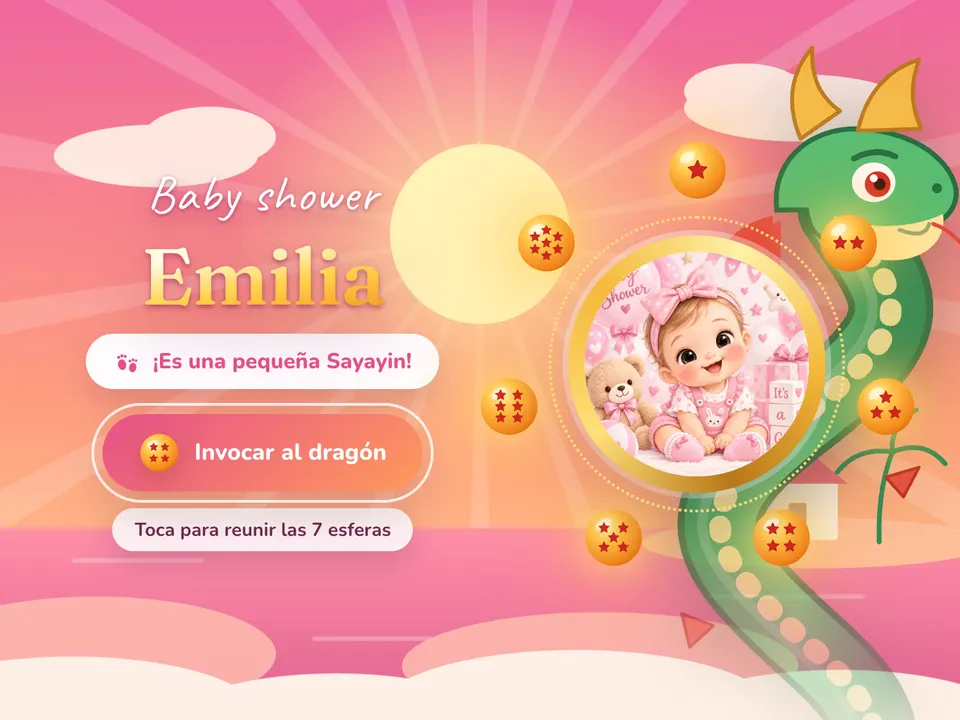
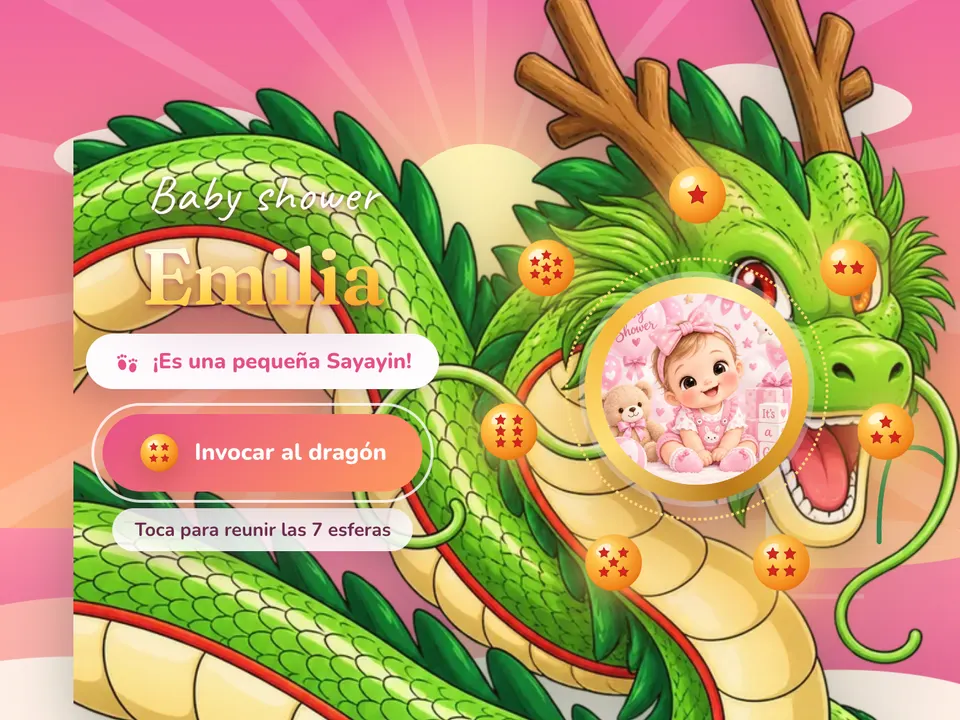
Baby shower dragón: usar la imagen del dragón en la portada

diff --git a/src/templates/baby-shower-dragon/Dragon.jsx b/src/templates/baby-shower-dragon/Dragon.jsx
@@ -1,5 +1,4 @@
-// Las esferas del dragón y el dragón, dibujados en SVG propio (sin imágenes ni logos de terceros).
-// Cada esfera es una bola naranja con sus estrellas rojas; el dragón es una serpiente larga y verde.
+// Las esferas del dragón, dibujadas en SVG propio: una bola naranja con sus estrellas rojas.
 
 const STAR = "M0-1 .29-.4.95-.31.47.15.59.81 0 .5-.59.81-.47.15-.95-.31-.29-.4Z";
 
@@ -32,54 +31,6 @@ export function DragonBall({ stars = 4, className = "" }) {
       {LAYOUTS[stars].map(([x, y, s], i) => (
         <path key={i} d={STAR} transform={`translate(${x} ${y}) scale(${s})`} fill="#d3261f" stroke="#a11713" strokeWidth=".06" strokeLinejoin="round" />
       ))}
-    </svg>
-  );
-}
-
-// Cuerpo del dragón: una S larga que sube desde abajo. Se dibuja en 3 capas para dar volumen.
-const BODY = "M210 1180C60 1080 40 960 150 880S330 760 220 660 70 520 200 420 300 300 240 210";
-
-/** Dragón serpentino que se eleva; la cabeza queda arriba. */
-export function Dragon({ className = "" }) {
-  return (
-    <svg className={`bsd-dragon ${className}`} viewBox="0 20 420 800" aria-hidden="true">
-      <defs>
-        <linearGradient id="bsd-dragon-skin" x1="0" x2="1">
-          <stop offset="0" stopColor="#2f9a5a" />
-          <stop offset=".55" stopColor="#5fce7e" />
-          <stop offset="1" stopColor="#2b8a52" />
-        </linearGradient>
-      </defs>
-      {/* sombra, piel y vientre */}
-      <path d={BODY} fill="none" stroke="#1d6b3d" strokeWidth="86" strokeLinecap="round" opacity=".9" />
-      <path d={BODY} fill="none" stroke="url(#bsd-dragon-skin)" strokeWidth="72" strokeLinecap="round" />
-      <path d={BODY} fill="none" stroke="#ffeaa0" strokeWidth="22" strokeLinecap="round" strokeDasharray="6 26" opacity=".85" />
-      <path d={BODY} fill="none" stroke="#fff" strokeWidth="10" strokeLinecap="round" opacity=".18" transform="translate(-18 0)" />
-      {/* espinas rojas a lo largo del lomo */}
-      <g fill="#e4453a" stroke="#b02a22" strokeWidth="3" strokeLinejoin="round">
-        <path d="M250 1130l32-14-10 34Z" />
-        <path d="M118 930l-30-18 6 36Z" />
-        <path d="M290 790l34-4-18 28Z" />
-        <path d="M112 630l-32-12 8 34Z" />
-        <path d="M286 480l34-10-16 30Z" />
-      </g>
-      {/* cabeza */}
-      <g transform="translate(240 190)">
-        <path d="M-64 20C-70-30-30-64 20-62c46 2 86 24 96 56 6 20-8 38-30 44-30 8-60 4-86 10-16 4-30 0-34-28Z" fill="#4fbf70" stroke="#1d6b3d" strokeWidth="5" />
-        <path d="M-6 26c30 14 76 14 110-2 4 24-14 42-40 46-28 4-56-4-70-44Z" fill="#ffeaa0" />
-        <path d="M-40-52c-16-38-8-70 12-92-2 30 8 50 28 64Z" fill="#f5b942" stroke="#b9781a" strokeWidth="4" strokeLinejoin="round" />
-        <path d="M18-60c8-40 34-64 62-72-10 26-8 48 2 70Z" fill="#f5b942" stroke="#b9781a" strokeWidth="4" strokeLinejoin="round" />
-        <path d="M-68 26c-30 6-54 26-58 52 22-8 40-8 58-2Z" fill="#e4453a" />
-        <path d="M-60 30c-40 22-70 60-70 100 22-20 44-40 70-52Z" fill="#e4453a" opacity=".85" />
-        <ellipse cx="34" cy="-8" rx="22" ry="20" fill="#fff" />
-        <circle cx="38" cy="-6" r="13" fill="#d3261f" />
-        <circle cx="40" cy="-6" r="6" fill="#2a0a0a" />
-        <circle cx="34" cy="-12" r="4" fill="#fff" />
-        <path d="M14-32q22-12 42-2" fill="none" stroke="#1d6b3d" strokeWidth="6" strokeLinecap="round" />
-        <circle cx="98" cy="-2" r="5" fill="#1d6b3d" />
-        <path d="M94 34q18 6 34 26" fill="none" stroke="#e4453a" strokeWidth="4" strokeLinecap="round" />
-        <path d="M60 40q26 10 30-6" fill="none" stroke="#1d6b3d" strokeWidth="4" strokeLinecap="round" opacity=".5" />
-      </g>
     </svg>
   );
 }

diff --git a/src/templates/baby-shower-dragon/styles.css b/src/templates/baby-shower-dragon/styles.css
@@ -978,11 +978,11 @@
   place-items: center;
   width: min(86vw, 430px);
   aspect-ratio: 1;
-  margin-top: 2%;
+  margin-top: 14%;
 }
 
 .bsd-stage .bsd-medallion {
-  width: 62%;
+  width: 54%;
   margin: 0;
 }
 
@@ -1018,19 +1018,16 @@
 
 .bsd-cover__dragon {
   position: absolute;
-  top: 3%;
-  right: -6vw;
+  inset: -7% 0 auto auto;
   z-index: -1;
-  width: min(62vw, 300px);
+  width: min(132vw, 640px);
+  max-width: none;
   height: auto;
-  aspect-ratio: 420 / 800;
   opacity: 0;
-  transform: translateY(40%) scale(0.85);
-  transform-origin: 50% 100%;
+  transform: translateY(14%) scale(0.9);
+  transform-origin: 70% 100%;
   pointer-events: none;
-  -webkit-mask-image: linear-gradient(#000 62%, transparent 96%);
-  mask-image: linear-gradient(#000 62%, transparent 96%);
-  filter: drop-shadow(0 18px 24px rgb(20 60 40 / 0.35));
+  filter: drop-shadow(0 16px 22px rgb(20 60 40 / 0.35));
 }
 
 .bsd[data-lit] .bsd-cover__dragon {
@@ -1087,4 +1084,24 @@
   .bsd-orbit__ball {
     animation: none;
   }
+}
+
+/* Con el dragón detrás, un velo suave oscurece el fondo del texto para que se lea */
+.bsd-cover__text {
+  position: relative;
+}
+
+.bsd-cover__text::before {
+  content: "";
+  position: absolute;
+  inset: -22% -14%;
+  z-index: -1;
+  background: radial-gradient(closest-side, rgb(110 20 60 / 0.55), transparent);
+  opacity: 0;
+  transition: opacity 1s ease 2.1s;
+  pointer-events: none;
+}
+
+.bsd[data-open] .bsd-cover__text::before {
+  opacity: 1;
 }

diff --git a/src/templates/baby-shower-dragon/Experience.jsx b/src/templates/baby-shower-dragon/Experience.jsx
@@ -8,9 +8,10 @@ import Particles from "../../experience-kit/Particles.jsx";
 import Photo from "../../experience-kit/Photo.jsx";
 import PhotoViewer from "../../experience-kit/PhotoViewer.jsx";
 import Reveal, { useInView } from "../../experience-kit/Reveal.jsx";
-import { Dragon, DragonBall } from "./Dragon.jsx";
+import { DragonBall } from "./Dragon.jsx";
 import Icon from "./Icons.jsx";
 import { babyIllustration } from "../baby-shower/media/index.js";
+import dragonSrc from "./media/dragon.webp";
 import Scenery from "./Scenery.jsx";
 import "./styles.css";
 
@@ -292,7 +293,7 @@ export default function BabyShowerDragonExperience({ content, mode, onEvent, res
 
       {/* 1. Portada: las 7 esferas se encienden una a una y el dragón sube detrás del aro */}
       <section className="bsd-panel bsd-cover" aria-label="Portada">
-        <Dragon className="bsd-cover__dragon" />
+        <img className="bsd-cover__dragon" src={dragonSrc} width="720" height="1279" alt="" aria-hidden="true" decoding="async" />
         <div className="bsd-stage">
           <div className="bsd-orbit" aria-hidden="true">
             {ORBIT.map((n, i) => (

diff --git a/docs/CAMBIOS.md b/docs/CAMBIOS.md
@@ -269,6 +269,6 @@ Verificación: `npm test` 80/80 · `npm run smoke` 5/5 tamaños (sin errores de 
 
 - Misma estructura que `baby-shower` (anuncio, detalles, mapa, cuenta regresiva, regalos, RSVP, álbum) con otra identidad: cielo de atardecer (niña) / cielo abierto (niño) / morado (sorpresa), rayos de energía, aro dorado.
 - Portada = pantalla de apertura: 7 esferas giran alrededor del aro; "Invocar al dragón" las enciende una a una, sube el dragón y aparece "¡Tu deseo se cumplió!".
-- Esferas y dragón dibujados en SVG propio (`Dragon.jsx`), sin logos ni imágenes de terceros. Entra sola a la colección `baby-shower`.
+- Esferas dibujadas en SVG propio (`Dragon.jsx`); el dragón es la imagen `media/dragon.webp` (PNG transparente que aportó el usuario, 720 px). Entra sola a la colección `baby-shower`.
 - La portada sin foto usa las ilustraciones de bebé de `baby-shower/media` (dependencia entre plantillas).
 - Verificación: `npm test` 151/151, `npm run smoke` 5 tamaños OK, miniatura generada.
